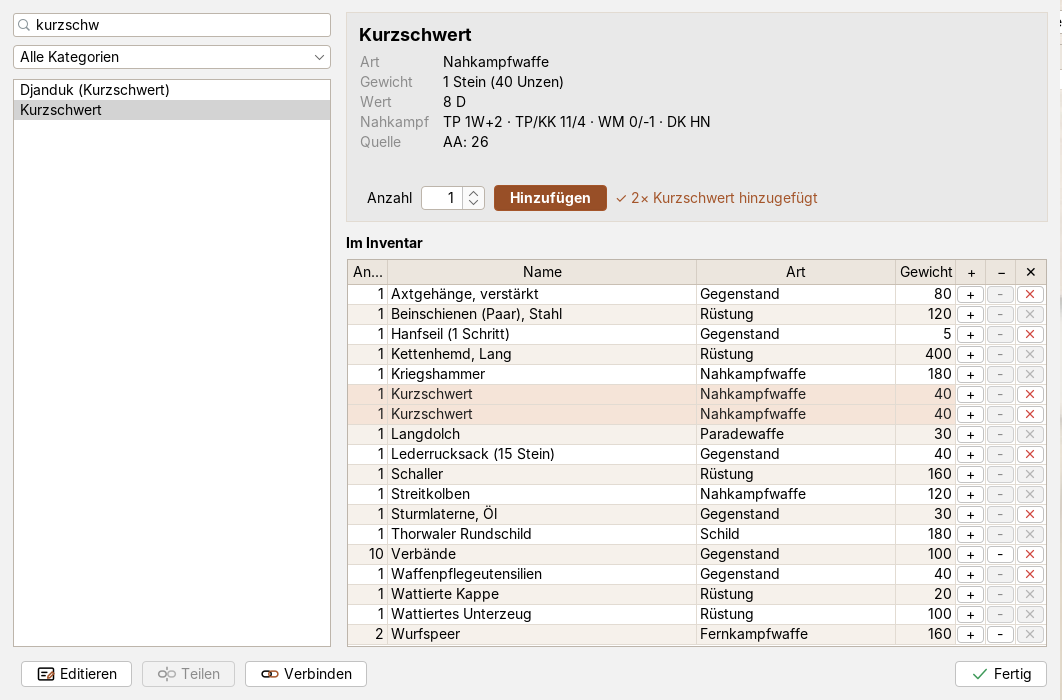
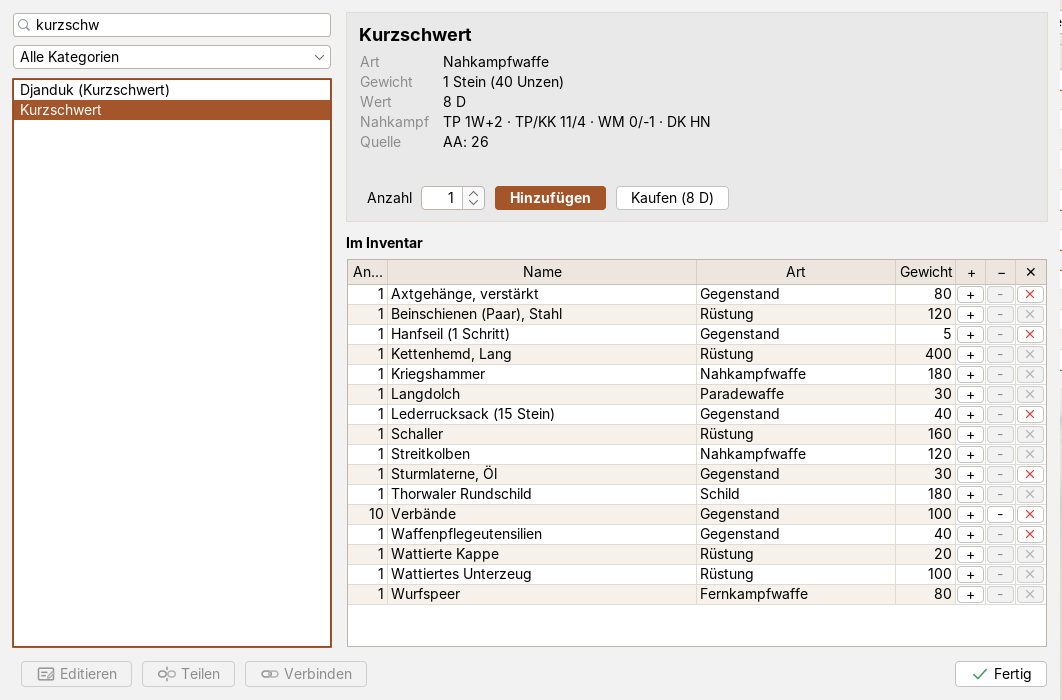
README auf Stand 1.18.0: Inventar, Ausrüstung, Bedienung, getestete Fälle, neue Bilder
Claude-Session: https://claude.ai/code/session_01XFsH5MfEcgtwerHLdGNyvK

diff --git a/README.md b/README.md
@@ -1,7 +1,7 @@
 # Modern-UI für die Helden-Software (DSA 4.1)
 
 Ein Plugin für die [Helden-Software](https://www.helden-software.de/), das ihr eine moderne Oberfläche,
-hilfreiche Tooltips und einen neu gestalteten Heldenbogen gibt. Alle Funktionen der Helden-Software bleiben
+übersichtlichere Reiter für Inventar und Ausrüstung, hilfreiche Tooltips und einen neu gestalteten Heldenbogen gibt. Alle Funktionen der Helden-Software bleiben
 erhalten. Das Plugin nutzt ausschließlich die offizielle Plugin-Schnittstelle und verändert keine Heldendateien.
 Mit einem Klick lässt sich jederzeit zum Original-Design zurückschalten.
 
@@ -16,6 +16,7 @@ Mit einem Klick lässt sich jederzeit zum Original-Design zurückschalten.
   - [Inventar, Hinzufügen und Geldbörse](#inventar-hinzufügen-und-geldbörse)
   - [Ausrüstung](#ausrüstung)
   - [Tooltips und eigene Notizen](#tooltips-und-eigene-notizen)
+  - [Steigerungen rückgängig machen](#steigerungen-rückgängig-machen)
   - [Reiter „Plugin: Modern-UI“](#reiter-plugin-modern-ui)
   - [Moderner Heldenbogen](#moderner-heldenbogen)
 - [Installation](#installation)
@@ -51,12 +52,14 @@ angeordnet. Es sind dieselben Bedienelemente der Helden-Software; alle Änderung
 
 - **Inventar:** Übersicht oben mit Anzahl der Einträge, Gesamtgewicht in Stein und Unzen und Inhalt der
   Geldbörse. Suchfeld, Filter nach Art und *Nach Art gruppieren* (Trennlinie und Art nur am Gruppenanfang).
-  Die Spalten +, − und ✕ sind schmal, Name und Art bekommen mehr Platz. Doppelklick auf eine Zeile öffnet
-  *Editieren* – auch bei sortierter oder gefilterter Ansicht für den richtigen Gegenstand.
+  Die Spalten +, − und ✕ sind schmal, Name und Art bekommen mehr Platz. Eine per Spaltenkopf gewählte
+  Sortierung bleibt erhalten. Doppelklick auf eine Zeile öffnet *Editieren* – auch bei sortierter oder
+  gefilterter Ansicht für den richtigen Gegenstand. Über einem ausgegrauten „−“ bzw. „✕“ erklärt ein Tooltip,
+  warum es gesperrt ist (ausgerüstet und erst abzulegen bzw. nur noch ein Stück).
 - **Gegenstand hinzufügen:** links Suche, Kategorie und Gegenstandsliste, rechts die Angaben zum markierten
   Gegenstand (Art, Gewicht, Wert, Kampf- bzw. Rüstungswerte, Quelle) mit *Anzahl* und *Hinzufügen*,
   darunter das Inventar. `↓` springt aus der Suche in die Liste. Ein Klick auf einen
-  Gegenstand im Inventar zeigt oben dessen Angaben.
+  Gegenstand im Inventar zeigt oben dessen Angaben; *Editieren* ist nur für Gegenstände im Inventar aktiv.
   *Kaufen (Preis)* fügt hinzu und bezahlt gleich aus der Geldbörse (Mittelreich, bei Bedarf mit Wechseln) –
   über den Geldbörsen-Dialog der Helden-Software, die Änderung steht also auch in ihrem Protokoll.
   Reicht das Geld nicht, wird nichts hinzugefügt.
@@ -65,6 +68,8 @@ angeordnet. Es sind dieselben Bedienelemente der Helden-Software; alle Änderung
 - **Geldbörse:** *Ein- und Ausgaben* – Betrag eingeben und *Einnehmen* oder *Ausgeben*. Beim Ausgeben
   wird bei Bedarf gewechselt (z. B. ein Silbertaler in Heller). Dazu der Gesamtwert in Silbertalern.
   Übernommen wird wie bisher erst mit *OK*, *Abbrechen* verwirft alles.
+
+Die Dialoge passen sich der Bildschirmgröße an, sodass *OK* und *Abbrechen* immer erreichbar bleiben.
 
 ![Inventar im modernen Design](docs/bilder/inventar.png)
 
@@ -76,11 +81,17 @@ angeordnet. Es sind dieselben Bedienelemente der Helden-Software; alle Änderung
 
 Auch der Reiter „Ausrüstung“ ist in den modernen Designs neu gestaltet; im Design *Original* bleibt er wie bisher.
 
-- **Übersicht:** Jedes der drei Ausrüstungssets als Karte (leere Sets mit „leer“ markiert). Oben eine Figur
-  mit dem Rüstungsschutz je Körperzone und die Summen (Rüstungsschutz, Behinderung, Gewicht, Initiative,
-  Ausweichen). Darunter nur die belegten Plätze mit ihren Werten (AT/PA/TP, FK, Schild-PA/WM, RS/BE und Zonen);
-  leere Bereiche zeigen „+ … anlegen“. Das „✕“ hinter einem Gegenstand legt ihn direkt ab (er bleibt im Inventar) –
-  über den Dialog der Helden-Software, der dafür kurz geöffnet und bestätigt wird.
+Die drei Ausrüstungssets sind alternative Ausrüstungen (z. B. Reise, Kampf, Stadt); die Helden-Software kennt
+kein „aktives“ Set, sondern berechnet die Werte für jedes Set einzeln.
+
+- **Übersicht:** Jedes Set als Karte (leere Sets mit „leer“ markiert). Oben eine Figur mit dem Rüstungsschutz
+  je Körperzone und die Summen (Rüstungsschutz, Behinderung, Gewicht, Initiative, Ausweichen). Darunter nur die
+  belegten Plätze mit ihren Werten (AT/PA/TP, FK, Schild-PA/WM, RS/BE und Zonen) – auch mehr als fünf
+  Rüstungsteile und umbenannte Gegenstände. Leere Bereiche zeigen „+ … anlegen“; fehlen passende Gegenstände
+  im Inventar, steht dort der Grund.
+- **Ablegen mit ✕:** Das rote „✕“ hinter einem Gegenstand legt ihn direkt ab, ohne *Bearbeiten* (er bleibt im
+  Inventar). Das erledigt im Hintergrund der Dialog der Helden-Software, die alle Werte selbst neu berechnet;
+  ein Fenster erscheint dabei nicht.
 - **Bearbeiten:** Die Dialoge der Helden-Software (Nahkampf, Fernkampf, Schilde/Parierwaffen, Rüstung) sind neu
   angeordnet: Plätze links als Zeilen, rechts die Gegenstände mit ihren Werten. Doppelklick legt einen Gegenstand
   auf den nächsten freien Platz, Ziehen auf einen bestimmten Platz; bei der Rüstung legt Doppelklick bzw. Ziehen an
@@ -237,6 +248,8 @@ Die automatische Aktualisierung funktioniert ab Version 1.16.0 – ältere Versi
 | Ordner mit den Notizen öffnen | *Erweiterungen → Modern-UI → Ordner mit eigenen Tooltip-Texten öffnen* |
 | Gegenstand hinzufügen | Reiter *Inventar / Tiere* → *Gegenstand hinzufügen …* → suchen, markieren, *Hinzufügen*, Doppelklick oder in das Inventar ziehen |
 | Gegenstand kaufen | Wie *Gegenstand hinzufügen*, dann *Kaufen (Preis)* statt *Hinzufügen* |
+| Ausrüstung anlegen | Reiter *Ausrüstung* → *Bearbeiten* beim Bereich → Gegenstand doppelklicken oder auf einen Platz ziehen → *OK* |
+| Ausrüstung ablegen | Reiter *Ausrüstung* → rotes „✕“ hinter dem Gegenstand |
 | Geld einnehmen / ausgeben | Reiter *Inventar / Tiere* → *Geldbörse* → Betrag eingeben → *Einnehmen* bzw. *Ausgeben* → *OK* |
 | Heldenbogen drucken / als PDF | Reiter *Druckvorschau* → *Drucken …* bzw. *PDF …* |
 | Steigerung / SF rückgängig machen | Reiter *Plugin: Modern-UI* → *Verlauf* → Eintrag wählen → *Rückgängig machen …* |
@@ -303,6 +316,10 @@ Der Heldenbogen wurde mit Testhelden geprüft – von „nichts“ bis „alles 
 - Minimalfälle: Held ohne Talente, Ausrüstung, Magie oder Namen; nur Nachteile; zauberkundig ohne Zauber;
   1 AsP bzw. 1 KaP; fehlende Bereiche in den Daten
 - Designwechsel hell → dunkel → Original → hell in Hauptfenster, Dialogen und Plugin-Reiter
+- Legenden der Kennzeichen in über 10 000 Varianten (Talente, Waffen, Zauber an jeder Seiten- und Spaltengrenze)
+- Inventar, Hinzufügen, Kaufen, Geldbörse und Ausrüstung in der Helden-Software mit Testhelden: Sortieren und
+  Filtern, Ziehen und Doppelklick, Wechseln beim Bezahlen, mehr als fünf Rüstungsteile, umbenannte Gegenstände,
+  kleiner Bildschirm (680 Pixel Höhe)
 
 ## Hinweise
 
